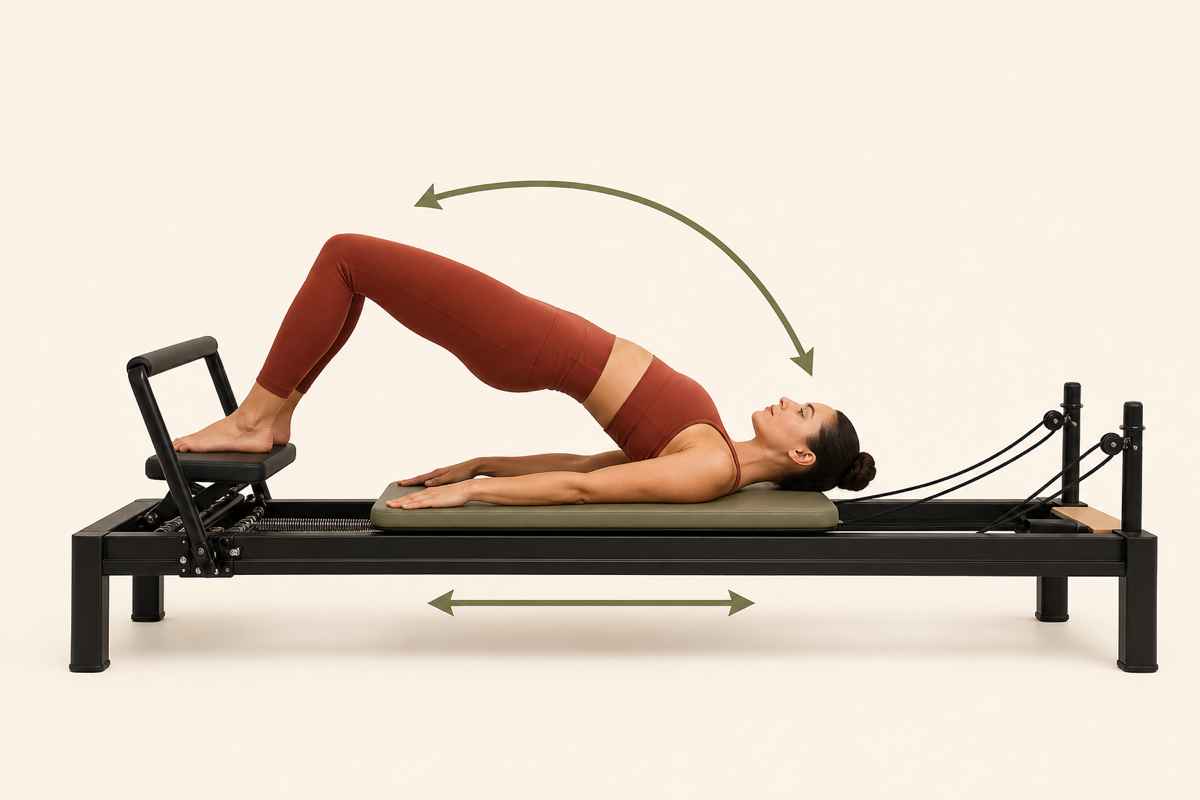
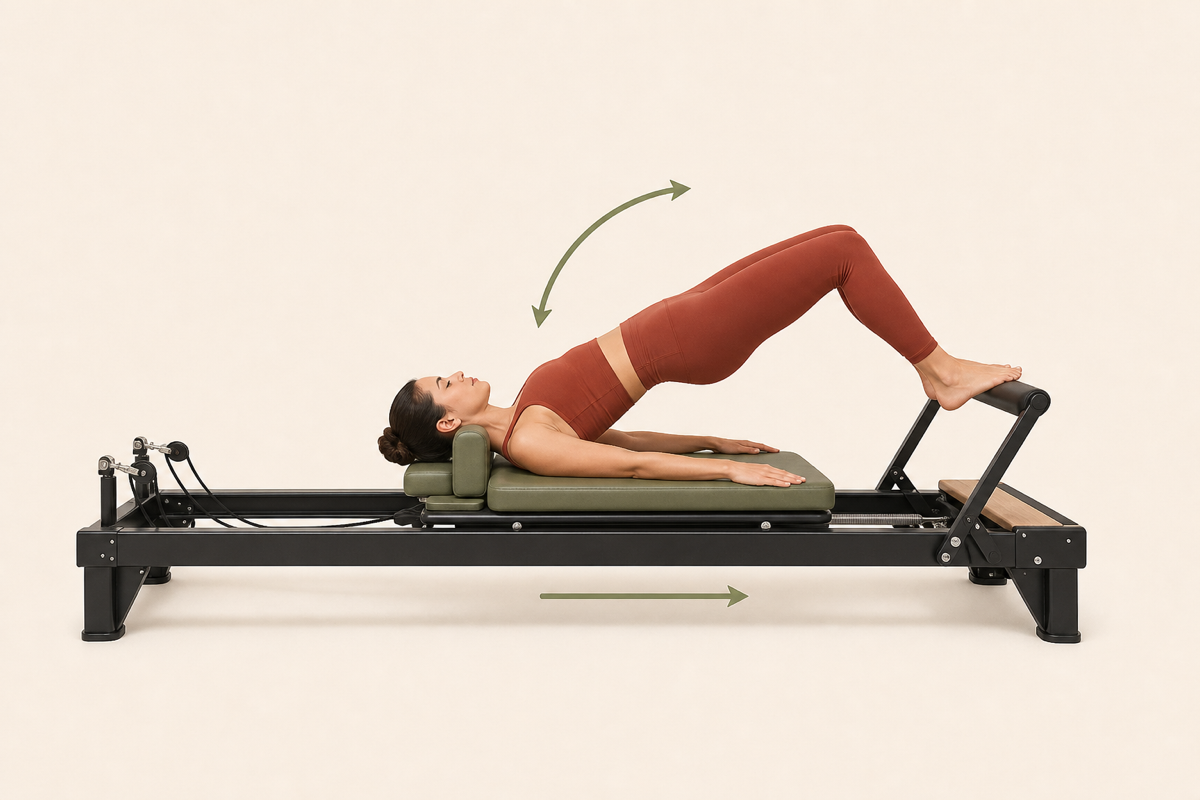
Use selected Semi Circle image

Changed region(s): [[0.0308, 0.2812, 0.9867, 0.8438], [0.3392, 0.2188, 0.5858, 0.2812], [0.4625, 0.2812, 0.4933, 0.3438]]

diff --git a/src/App.tsx b/src/App.tsx
@@ -55,7 +55,7 @@ const reformerExpansionCustomImages: Record<string, string> = {
   'Hamstring Curls': 'assets/reformer-custom/hamstring-curls.png?v=1',
   Breaststroke: 'assets/reformer-custom/breaststroke.png?v=1',
   'Thigh Stretch': 'assets/reformer-custom/thigh-stretch.png?v=1',
-  'Semi Circle': 'assets/reformer-custom/semi-circle.png?v=1',
+  'Semi Circle': 'assets/reformer-custom/semi-circle.png?v=2',
 }
 const reformerExpansionExercises: Exercise[] = reformerExpansionNames.map(([en, zh], index) => ({ id: 121 + index, en, zh, image: assetUrl(reformerExpansionCustomImages[en] || `assets/reformer-expansion/${String(index + 1).padStart(2, '0')}.png`), kind: 'Reformer' as const }))
 const reformerAdditionalNames: [string, string][] = [